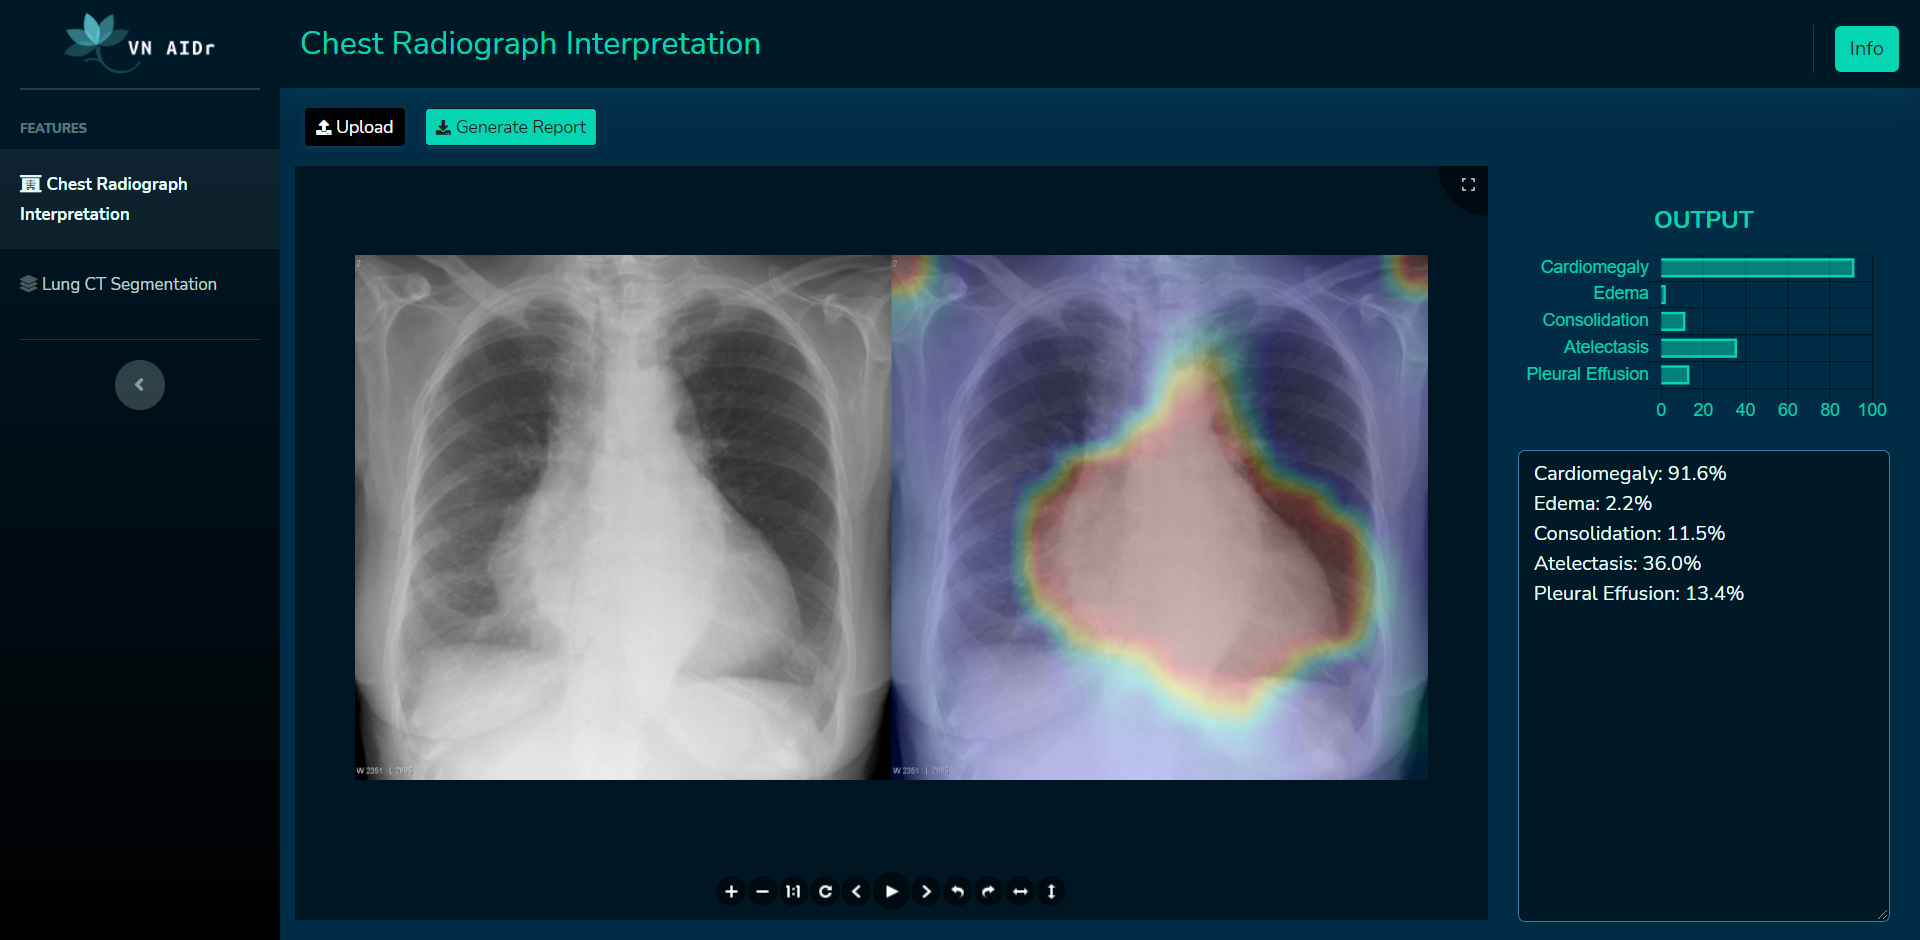
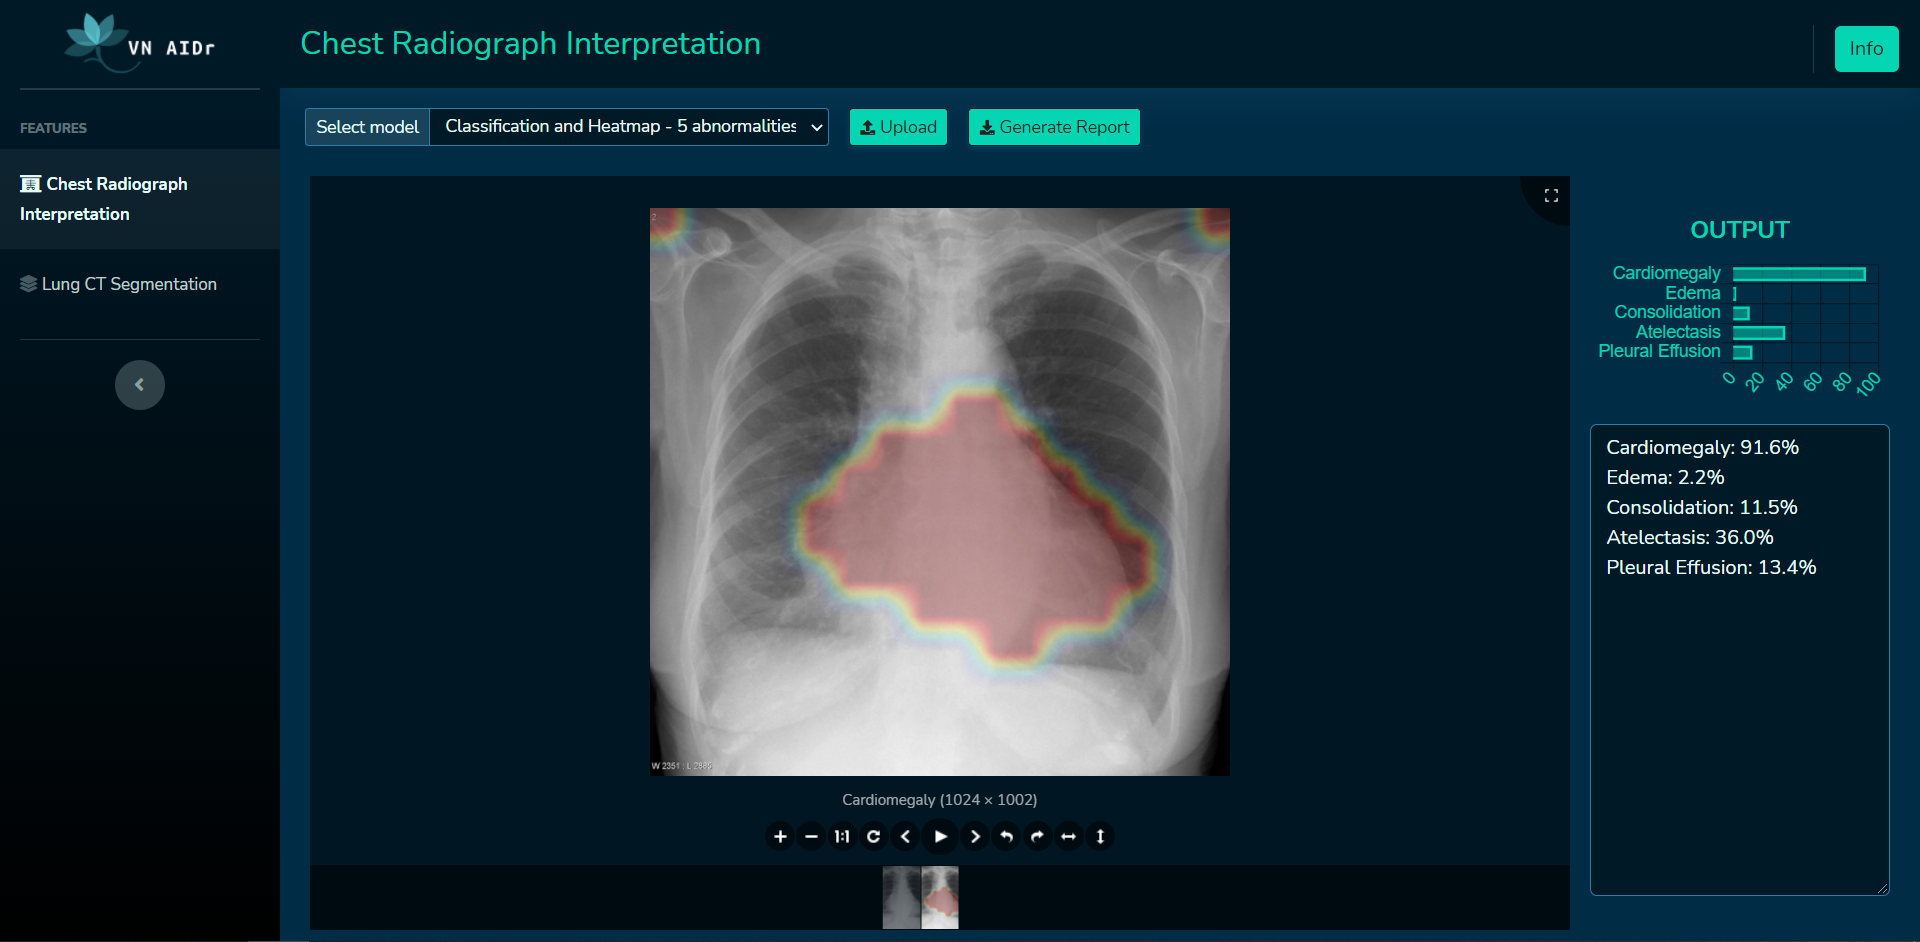
Update model paths and screenshot

diff --git a/config.py b/config.py
@@ -8,9 +8,9 @@ ACCENT_MODEL_TOKENIZER_PATH = "trained_models/vn_accent/tokenizer.h5"
 
 LUNG_CT_SEGMENTATION_MODEL_PATH = "trained_models/ct_lung_segmentation_20201228.onnx"
 
-CHEST_XRAY_MODEL_PATH = "trained_models/chest_xray_classification/chest_xray_effficentnetb4_20210114.onnx"
-CHEST_XRAY_CONFIG_PATH = "trained_models/chest_xray_classification/chest_xray_20210109_config.json"
+CHEST_XRAY_CLASSIFICATION_MODEL_PATH = "trained_models/chest_xray_classification/chest_xray_effficentnetb4_20210114.onnx"
+CHEST_XRAY_CLASSIFICATION_CONFIG_PATH = "trained_models/chest_xray_classification/chest_xray_20210109_config.json"
 
-CHEST_XRAY_DETECTION_MODEL_PATH = "trained_models/chest_xray_detection/model_final.pth"
+CHEST_XRAY_DETECTION_MODEL_PATH = "trained_models/chest_xray_detection/chest_xray_abnomalities_20200118.pth"
 CHEST_XRAY_DETECTION_META_FILE = "trained_models/chest_xray_detection/train_meta.csv"
 CHEST_XRAY_DETECTION_TRAIN_FILE = "trained_models/chest_xray_detection/train.csv"

diff --git a/download_models.py b/download_models.py
@@ -19,6 +19,18 @@ DATA_FILES = [
     {
         "path": "trained_models/vn_accent/transformer_evolved_ep14.h5",
         "url": "https://drive.google.com/uc?id=1hbA78RVq5wdsM3H3YCn0YXyGP5D1DsLc"
+    },
+    {
+        "path": "trained_models/chest_xray_detection/train_meta.csv",
+        "url": "https://drive.google.com/uc?id=13YrjdHMSR2I2JIUHVw0t4lbgS_1JQRvF"
+    },
+    {
+        "path": "trained_models/chest_xray_detection/train.csv",
+        "url": "https://drive.google.com/uc?id=13SJCsvUdwZWciZIC4cbAhdrbVGqBPIZd"
+    },
+    {
+        "path": "trained_models/chest_xray_detection/chest_xray_abnomalities_20200118.pth",
+        "url": "https://drive.google.com/uc?id=11aJO_cLaXtdYKb3M02BjuTQ3Uq1anwIe"
     }
 ]
 

diff --git a/chest_xray_classification_runner.py b/chest_xray_classification_runner.py
@@ -14,8 +14,8 @@ from config import *
 class ChestXrayClassificationRunner():
 
     def __init__(self):
-        self.model = rt.InferenceSession(CHEST_XRAY_MODEL_PATH)
-        with open(CHEST_XRAY_CONFIG_PATH) as f:
+        self.model = rt.InferenceSession(CHEST_XRAY_CLASSIFICATION_MODEL_PATH)
+        with open(CHEST_XRAY_CLASSIFICATION_CONFIG_PATH) as f:
             self.cfg = edict(json.load(f))
         self.labels = self.cfg.labels
     
